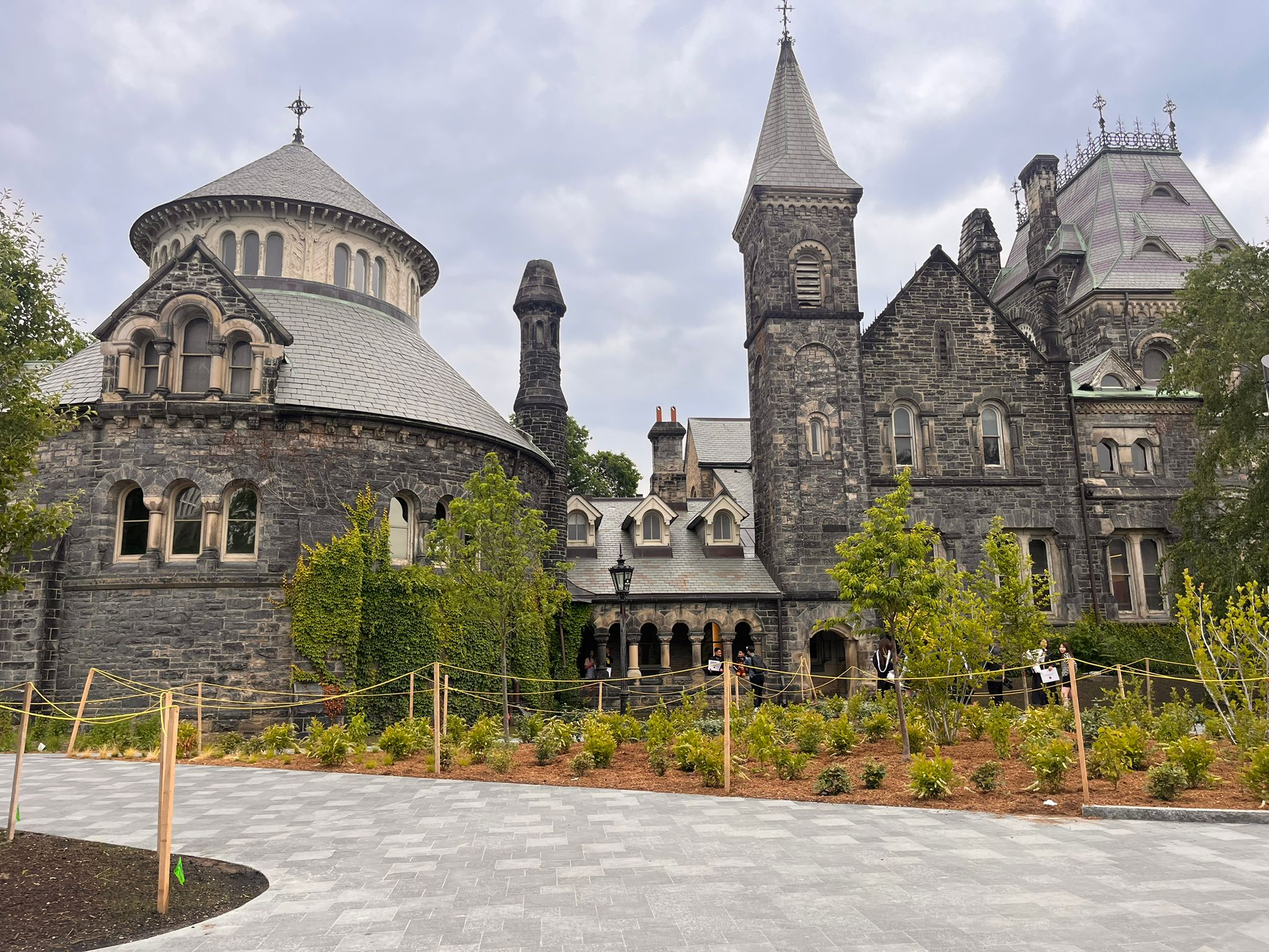
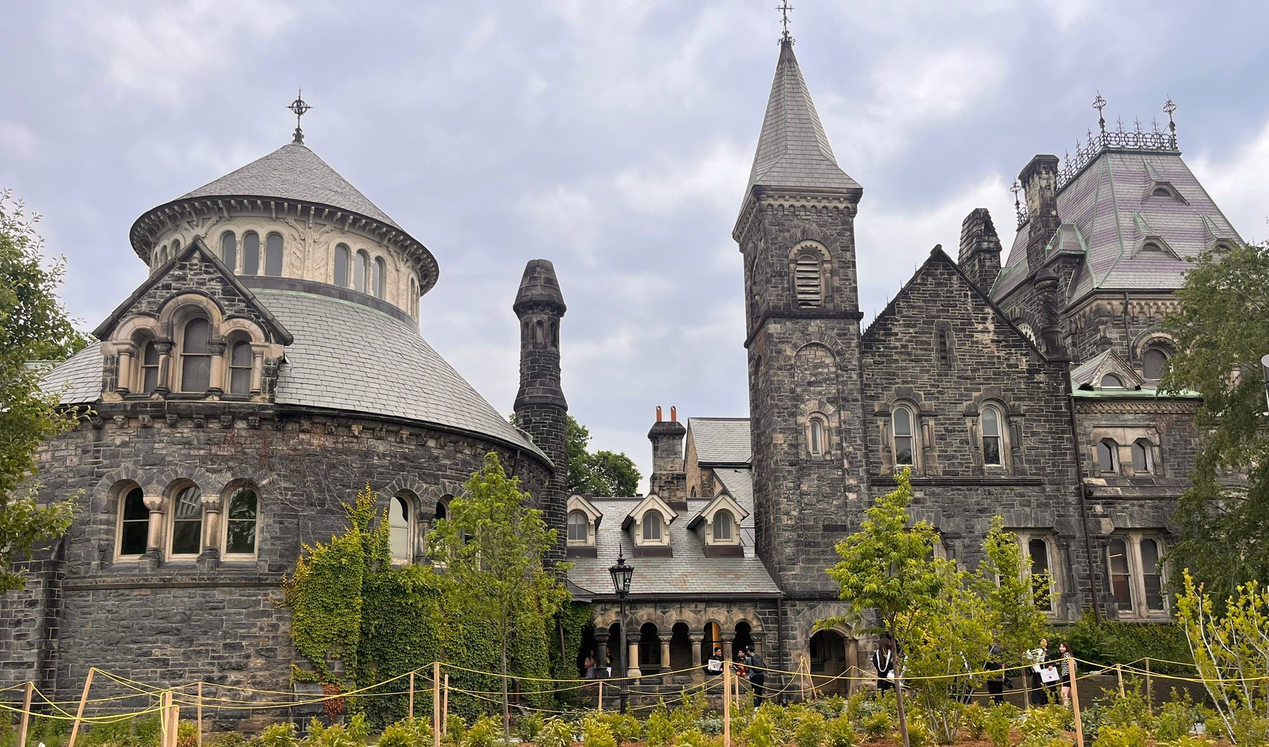
Started the build of education page

diff --git a/education.html b/education.html
@@ -6,7 +6,7 @@
 -->
 <html>
 	<head>
-		<title>Left Sidebar - Landed by HTML5 UP</title>
+		<title>Education - Patrick Sandoval</title>
 		<meta charset="utf-8" />
 		<meta name="viewport" content="width=device-width, initial-scale=1, user-scalable=no" />
 		<link rel="stylesheet" href="assets/css/main.css" />
@@ -17,17 +17,17 @@
 
 			<!-- Header -->
 				<header id="header">
-					<h1 id="logo"><a href="index.html">Landed</a></h1>
+					<h1 id="logo"><a href="index.html">Patrick Sandoval</a></h1>
 					<nav id="nav">
 						<ul>
 							<li><a href="index.html">Home</a></li>
 							<li>
-								<a href="#">Layouts</a>
+								<a href="#">More</a>
 								<ul>
-									<li><a href="left-sidebar.html">Left Sidebar</a></li>
-									<li><a href="right-sidebar.html">Right Sidebar</a></li>
-									<li><a href="no-sidebar.html">No Sidebar</a></li>
-									<li>
+									<!--<li><a href="left-sidebar.html">Education</a></li> -->
+									<li><a href="experience.html">Experience</a></li>
+									<li><a href="research.html">Research</a></li>
+									<!--<li>
 										<a href="#">Submenu</a>
 										<ul>
 											<li><a href="#">Option 1</a></li>
@@ -35,11 +35,11 @@
 											<li><a href="#">Option 3</a></li>
 											<li><a href="#">Option 4</a></li>
 										</ul>
-									</li>
+									</li> -->
 								</ul>
 							</li>
 							<li><a href="elements.html">Elements</a></li>
-							<li><a href="#" class="button primary">Sign Up</a></li>
+							<li><a href="#" class="button primary">Contact Me</a></li>
 						</ul>
 					</nav>
 				</header>
@@ -67,7 +67,7 @@
 										</section>
 										<hr />
 										<section>
-											<a href="#" class="image fit"><img src="images/pic06.jpg" alt="" /></a>
+											<a href="#" class="image fit"><img src="images/Blackboard.jpeg" alt="" /></a>
 											<h3>Amet Lorem Tempus</h3>
 											<p>Sed tristique purus vitae volutpat commodo suscipit amet sed nibh. Proin a ullamcorper sed blandit. Sed tristique purus vitae volutpat commodo suscipit ullamcorper sed blandit lorem ipsum dolore.</p>
 											<footer>
@@ -83,7 +83,7 @@
 
 								<!-- Content -->
 									<section id="content">
-										<a href="#" class="image fit"><img src="images/pic05.jpg" alt="" /></a>
+										<a href="#" class="image fit"><img src="images/UC.jpeg" alt="" /></a>
 										<h3>Dolore Amet Consequat</h3>
 										<p>Aliquam massa urna, imperdiet sit amet mi non, bibendum euismod est. Curabitur mi justo, tincidunt vel eros ullamcorper, porta cursus justo. Cras vel neque eros. Vestibulum diam quam, mollis at magna consectetur non, malesuada quis augue. Morbi tincidunt pretium interdum est. Curabitur mi justo, tincidunt vel eros ullamcorper, porta cursus justo. Cras vel neque eros. Vestibulum diam.</p>
 										<p>Vestibulum diam quam, mollis at consectetur non, malesuada quis augue. Morbi tincidunt pretium interdum. Morbi mattis elementum orci, nec dictum porta cursus justo. Quisque ultricies lorem in ligula condimentum, et egestas turpis sagittis. Cras ac nunc urna. Nullam eget lobortis purus. Phasellus vitae tortor non est placerat tristique.</p>
